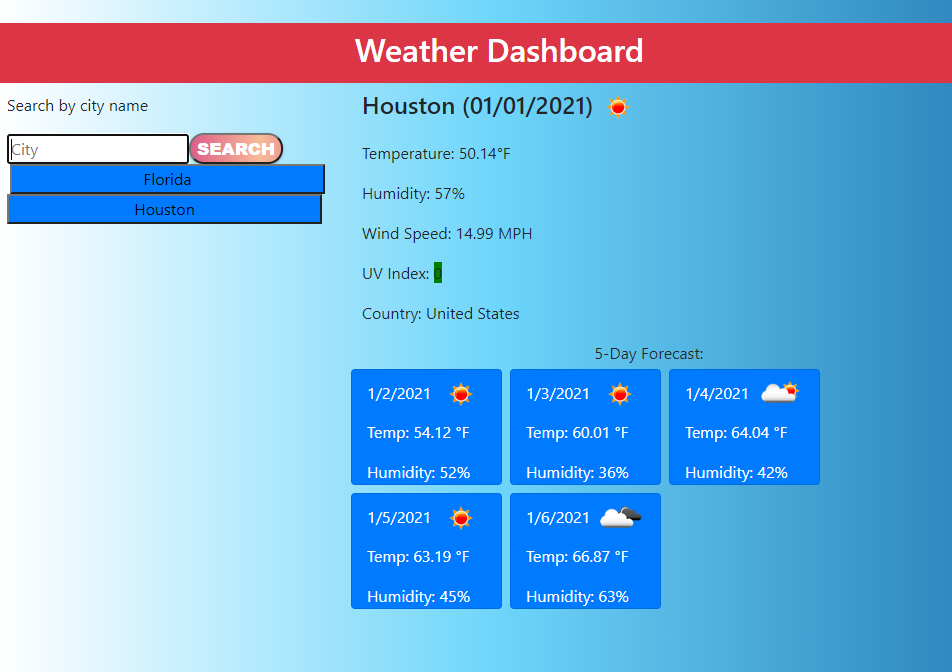
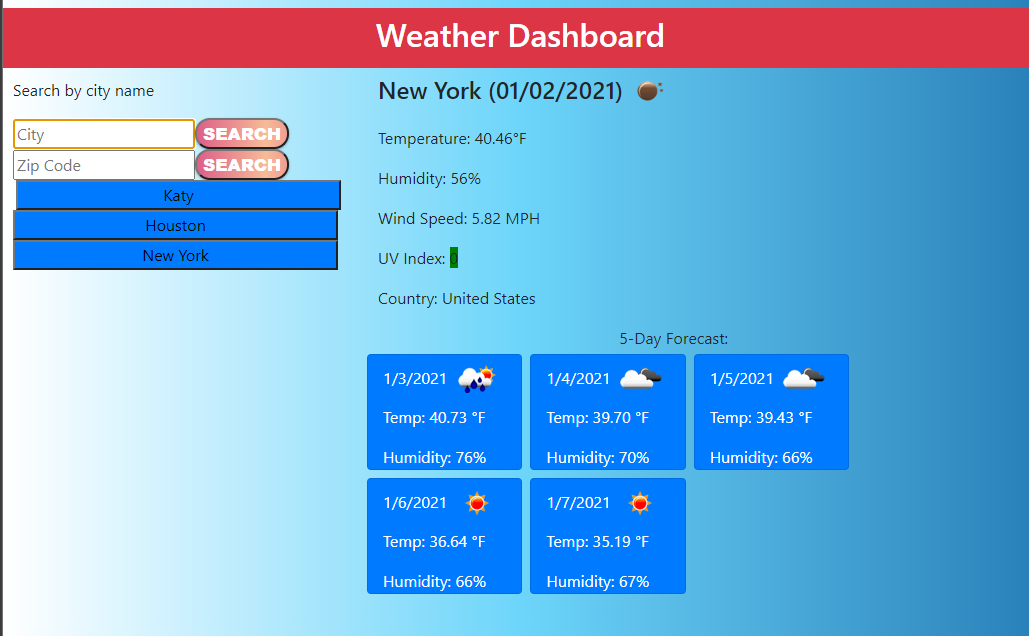
updated screenshot of readme; added conversion of temp with using zip code search only

diff --git a/assets/script.js b/assets/script.js
@@ -74,7 +74,13 @@ function searchWeather(city, zipcode) {
       console.log(response);
       let currDate = moment().format('L');
       $('#city').html(`${response.name} (${currDate})`);
-      $('#temperature').html(response.main.temp + '°F');
+      // temperatures returned from zip code search is not in Fehrenheit temperature by default
+      if (zipcode === false) {
+        $('#temperature').html(response.main.temp + '°F');
+      } else {
+        let temp = kelvin2F(response.main.temp);
+        $('#temperature').html(temp + '°F');
+      }
       $('#weather_image').attr('src', 'http://openweathermap.org/img/w/' + response.weather[0].icon + '.png');
       $("#humidity").html(response.main.humidity);
       $("#wind-speed").html(response.wind.speed);
@@ -117,7 +123,7 @@ function unixTime(uTime) {
   return humanDateFormat;
 }
 
-// function to conver the Kelvin degrees to Fehrenheit
+// function to convert Kelvin degrees to Fehrenheit
 function kelvin2F (temp) {
   temp = (temp - 273.15) * 1.80 + 32;
   temp = parseFloat(temp).toFixed(2);
@@ -139,7 +145,7 @@ $('#cityText').keypress(function (event) {
   }
 });
 
-// zip code search to be in later releases
+// onclick events for the zip code search
 $('.zipbtn').click(function(event) {
   event.preventDefault();
   let searchZip = $( '#zipText' ).val();

diff --git a/README.md b/README.md
@@ -19,7 +19,7 @@ You can open the app on the browser to view the content. There are no special in
 
 ## Usage
 
-The app will open up with a a field to search by the city name. Once the city name is entered, either click on the 'search' button or press 'Enter' on your keyboard to initiate the search. Your current weather and 5-days forecast will appear if you entered a valid city name. 
+The app will open up with a a field to search by the city name or by the zip code if you are in the United States. Once the city name or zip code is entered, either click on the 'search' button or press 'Enter' on your keyboard to initiate the search. Your current weather and 5-days forecast will appear if you entered a valid city name or zip code. 
 
 Your search history will appear on the left hand side where you can click on to jump back to the weather for the city you selected. 
 
